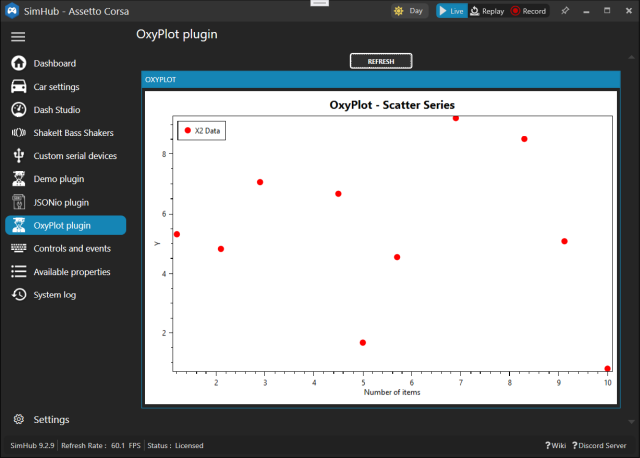
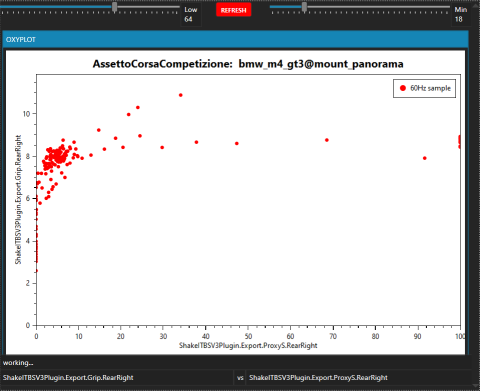
minor updates;  ScatterPlot grabs Title from Model, set by Plugin

diff --git a/Control.xaml.cs b/Control.xaml.cs
@@ -14,6 +14,7 @@ namespace OxyPlotPlugin
 	{
 		public event PropertyChangedEventHandler PropertyChanged;
 		public void OnPropertyChanged(PropertyChangedEventArgs myevent) => PropertyChanged?.Invoke(this, myevent);
+		public string Title { get; set; }
 
 		readonly PropertyChangedEventArgs BVevent = new PropertyChangedEventArgs(nameof(OxyButVis));
 		readonly PropertyChangedEventArgs XYevent = new PropertyChangedEventArgs(nameof(XYprop));
@@ -80,24 +81,28 @@ namespace OxyPlotPlugin
 	{
 		public Plugin Plugin { get; }
 		public ViewModel Model;
-		public int lowval, minval;
+		public int lowval, minval;	// plot control lime sliders
+		public double[][] x;		// plot samples
+		public double[][] y;
+		private double ymax;		// somewhat arbitrary Y axis limit
+
 		public Control()
 		{
 			Model = new ViewModel();
 			Model.OxyButVis = Visibility.Hidden;
-			Model.XYprop = "All plots must include Low > values > Min";
+			Model.XYprop = "Plots require some values:  Low > values > Min";
 			DataContext = Model;
 			InitializeComponent();
-			Random rnd=new Random();
-			lowval = 1; minval = 40;	// minimum plotable interval range 
+			lowval = 50; minval = 10;	// default minimum plotable interval range 
+			ymax = 15;
 			x = new double[2][];
 			y = new double[2][];
-			ymax = 15;
 			x[0] = new double[180];
 			x[1] = new double[x[0].Length];
 			y[0] = new double[x[0].Length];
 			y[1] = new double[x[0].Length];
-			for (int i = 0; i < x[0].Length;)
+			Random rnd=new Random();
+			for (int i = 0; i < x[0].Length;)	// something to fill the plot
 			{
 				y[0][i] = ymax * rnd.NextDouble();
 				x[0][i] = ++i;
@@ -107,7 +112,8 @@ namespace OxyPlotPlugin
 		public Control(Plugin plugin) : this()
 		{
 			this.Plugin = plugin;
-			ScatterPlot(0, "launch a game or Replay to enable Y vs X property plots");
+			Model.Title = "launch a game or Replay to enable Y vs X property plots";
+			ScatterPlot(0);
 		}
 
 		private void ScatterSeries_Click(object sender, RoutedEventArgs e)
@@ -116,21 +122,16 @@ namespace OxyPlotPlugin
 			Plugin.xprop = Xprop.Text;
 			Plugin.running = true;		// prevent Plugin overwriting slider prompt until first click
 			ymax = 1 + Plugin.ymax[Plugin.which];
-			ScatterPlot(Plugin.which, Plugin.gname + " " + Plugin.cname + "@" + Plugin.tname);
+			ScatterPlot(Plugin.which);
 			// force which refill
 			Plugin.ymax[Plugin.which] = Plugin.xmax[Plugin.which] = Plugin.ymin[Plugin.which] = Plugin.xmin[Plugin.which];
 			Model.OxyButVis = Visibility.Hidden;
 		}
 
-		public double[][] x;
-		public double[][] y;
-		private double ymax;
-		public string variables;
-		private PlotModel model;
-
-		public void ScatterPlot(int which, string title)
+		public void ScatterPlot(int which)
 		{
-			model = new PlotModel { Title = title };
+			PlotModel model = new PlotModel { Title = Model.Title };
+
 			model.Axes.Add(new LinearAxis
 			{
 				Position = AxisPosition.Left,
@@ -150,7 +151,6 @@ namespace OxyPlotPlugin
 			model.LegendPosition = LegendPosition.TopRight;
 			model.LegendFontSize = 12;
 			model.LegendBorder = OxyColors.Black;
-
 			model.LegendBorderThickness = 1;
 			plot.Model = model;
 		}

diff --git a/Plugin.cs b/Plugin.cs
@@ -2,20 +2,20 @@
 using SimHub.Plugins;
 using SimHub.Plugins.DataPlugins.ShakeItV3;
 using System;
+using System.Windows.Forms;
 using System.Windows.Media;
 using System.Xml;
 using static System.Net.WebRequestMethods;
 
 namespace OxyPlotPlugin
 {
-	[PluginDescription("An XY OxyPlot of 2 SimHub properties")]
+	[PluginDescription("XY OxyPlot of paired SimHub properties")]
 	[PluginAuthor("blekenbleu")]
-	[PluginName("OxyPlot plugin")]
+	[PluginName("OxyPlot XY plugin")]
 	public class Plugin : IPlugin, IDataPlugin, IWPFSettingsV2
 	{
 		public Settings Settings;
 		public bool running = false;
-		internal string gname = "", cname="", tname="";
 
 		/// <summary>
 		/// Instance of the current plugin manager
@@ -30,7 +30,7 @@ namespace OxyPlotPlugin
 		/// <summary>
 		/// Gets a short plugin title to show in left menu. Return null if you want to use the title as defined in PluginName attribute.
 		/// </summary>
-		public string LeftMenuTitle => "OxyPlot plugin";
+		public string LeftMenuTitle => "OxyPlot XY plugin";
 
 		/// <summary>
 		/// Called one time per game data update, contains all normalized game data,
@@ -153,10 +153,10 @@ namespace OxyPlotPlugin
 			// Declare an action which can be called
 			this.AddAction("ChangeProperties", (a, b) =>
 			{
-				View.variables = "Grip.FrontLeft vs ProxyS.FrontLeft";
-				gname = pluginManager.GetPropertyValue("DataCorePlugin.CurrentGame")?.ToString();
-				cname = pluginManager.GetPropertyValue("CarID")?.ToString();
-				tname = pluginManager.GetPropertyValue("DataCorePlugin.GameData.TrackId")?.ToString();
+                View.Model.Title =
+					pluginManager.GetPropertyValue("DataCorePlugin.CurrentGame")?.ToString()
+					+ ":  " + pluginManager.GetPropertyValue("CarID")?.ToString()
+					+ "@" + pluginManager.GetPropertyValue("DataCorePlugin.GameData.TrackId")?.ToString();
 			});
 		}
 	}

diff --git a/README.md b/README.md
@@ -19,32 +19,25 @@
 	Control.xaml (2x), Control.xaml.cs, Plugin.cs, Settings.cs
 - in Plugin.cs, changed:  
 ```
-    [PluginDescription("An XY OxyPlot of 2 SimHub properties")]
+    [PluginDescription("XY OxyPlot of paired SimHub properties")]
     [PluginAuthor("blekenbleu")]
-    [PluginName("OxyPlot plugin")]
+    [PluginName("OxyPlot XY plugin")]
 	...
 	...
-	public string LeftMenuTitle => "OxyPlot plugin";
+	public string LeftMenuTitle => "OxyPlot XY plugin";
 ```
-- added OxyPlot stuff for scatter plot
+- added OxyPlot stuff for scatter plot  
 	![](Doc/pasted.png)  
 - break out scatterplot method from keypress event
 - update plot data from Plugin.cs  
 	![](Doc/proto.png)  
 - ping pong buffers for capturing high dynamic range sample sets  
-- "autoexposure" `Refresh` button visible only for interesting value captures
+- min/max X sample range sliders
+- "autoexposure" `Refresh` button visible only for value captures based on sliders
 - capture property names and validate values of selected properties  
-- min/max range sliders
 
-### To Do  
-- refresh plot without new objects  
-	- [PlotModel.InvalidatePlot(new)](https://oxyplot.readthedocs.io/en/master/common-tasks/refresh-plot.html)
- 	[example](https://github.com/oxyplot/oxyplot/blob/develop/Source/Examples/WPF/WpfExamples/Examples/RealtimeDemo/MainViewModel.cs#L91C18-L91C49)  
-	- [C#Corner live demo](https://www.c-sharpcorner.com/article/live-chart-streamed-data-update-using-oxyplot/)  
-	- [performance discussion](https://github.com/oxyplot/oxyplot/issues/1801)  
-	- [RealTimeDemo](https://github.com/oxyplot/oxyplot/tree/develop/Source/Examples/WPF/WpfExamples/Examples/RealtimeDemo)    
-	- [PerformanceTest](https://github.com/alxkalinin/oxyplot/tree/develop/Source/Examples/PerformanceTest) example using RenderingExtensions.DrawReducedLine method    
-	- [RenderingExtensions.DrawReducedLine](https://svitla.com/blog/wpf-application-with-real-time-data-in-oxyplot-charts) tutorial discussion    
+### Many plot properties can change for any plot
+- `new ScatterSeries` each time...
 
 ### Property folder changes from default WPF project for SimHub plugins
 <details><summary>click for differences</summary>
